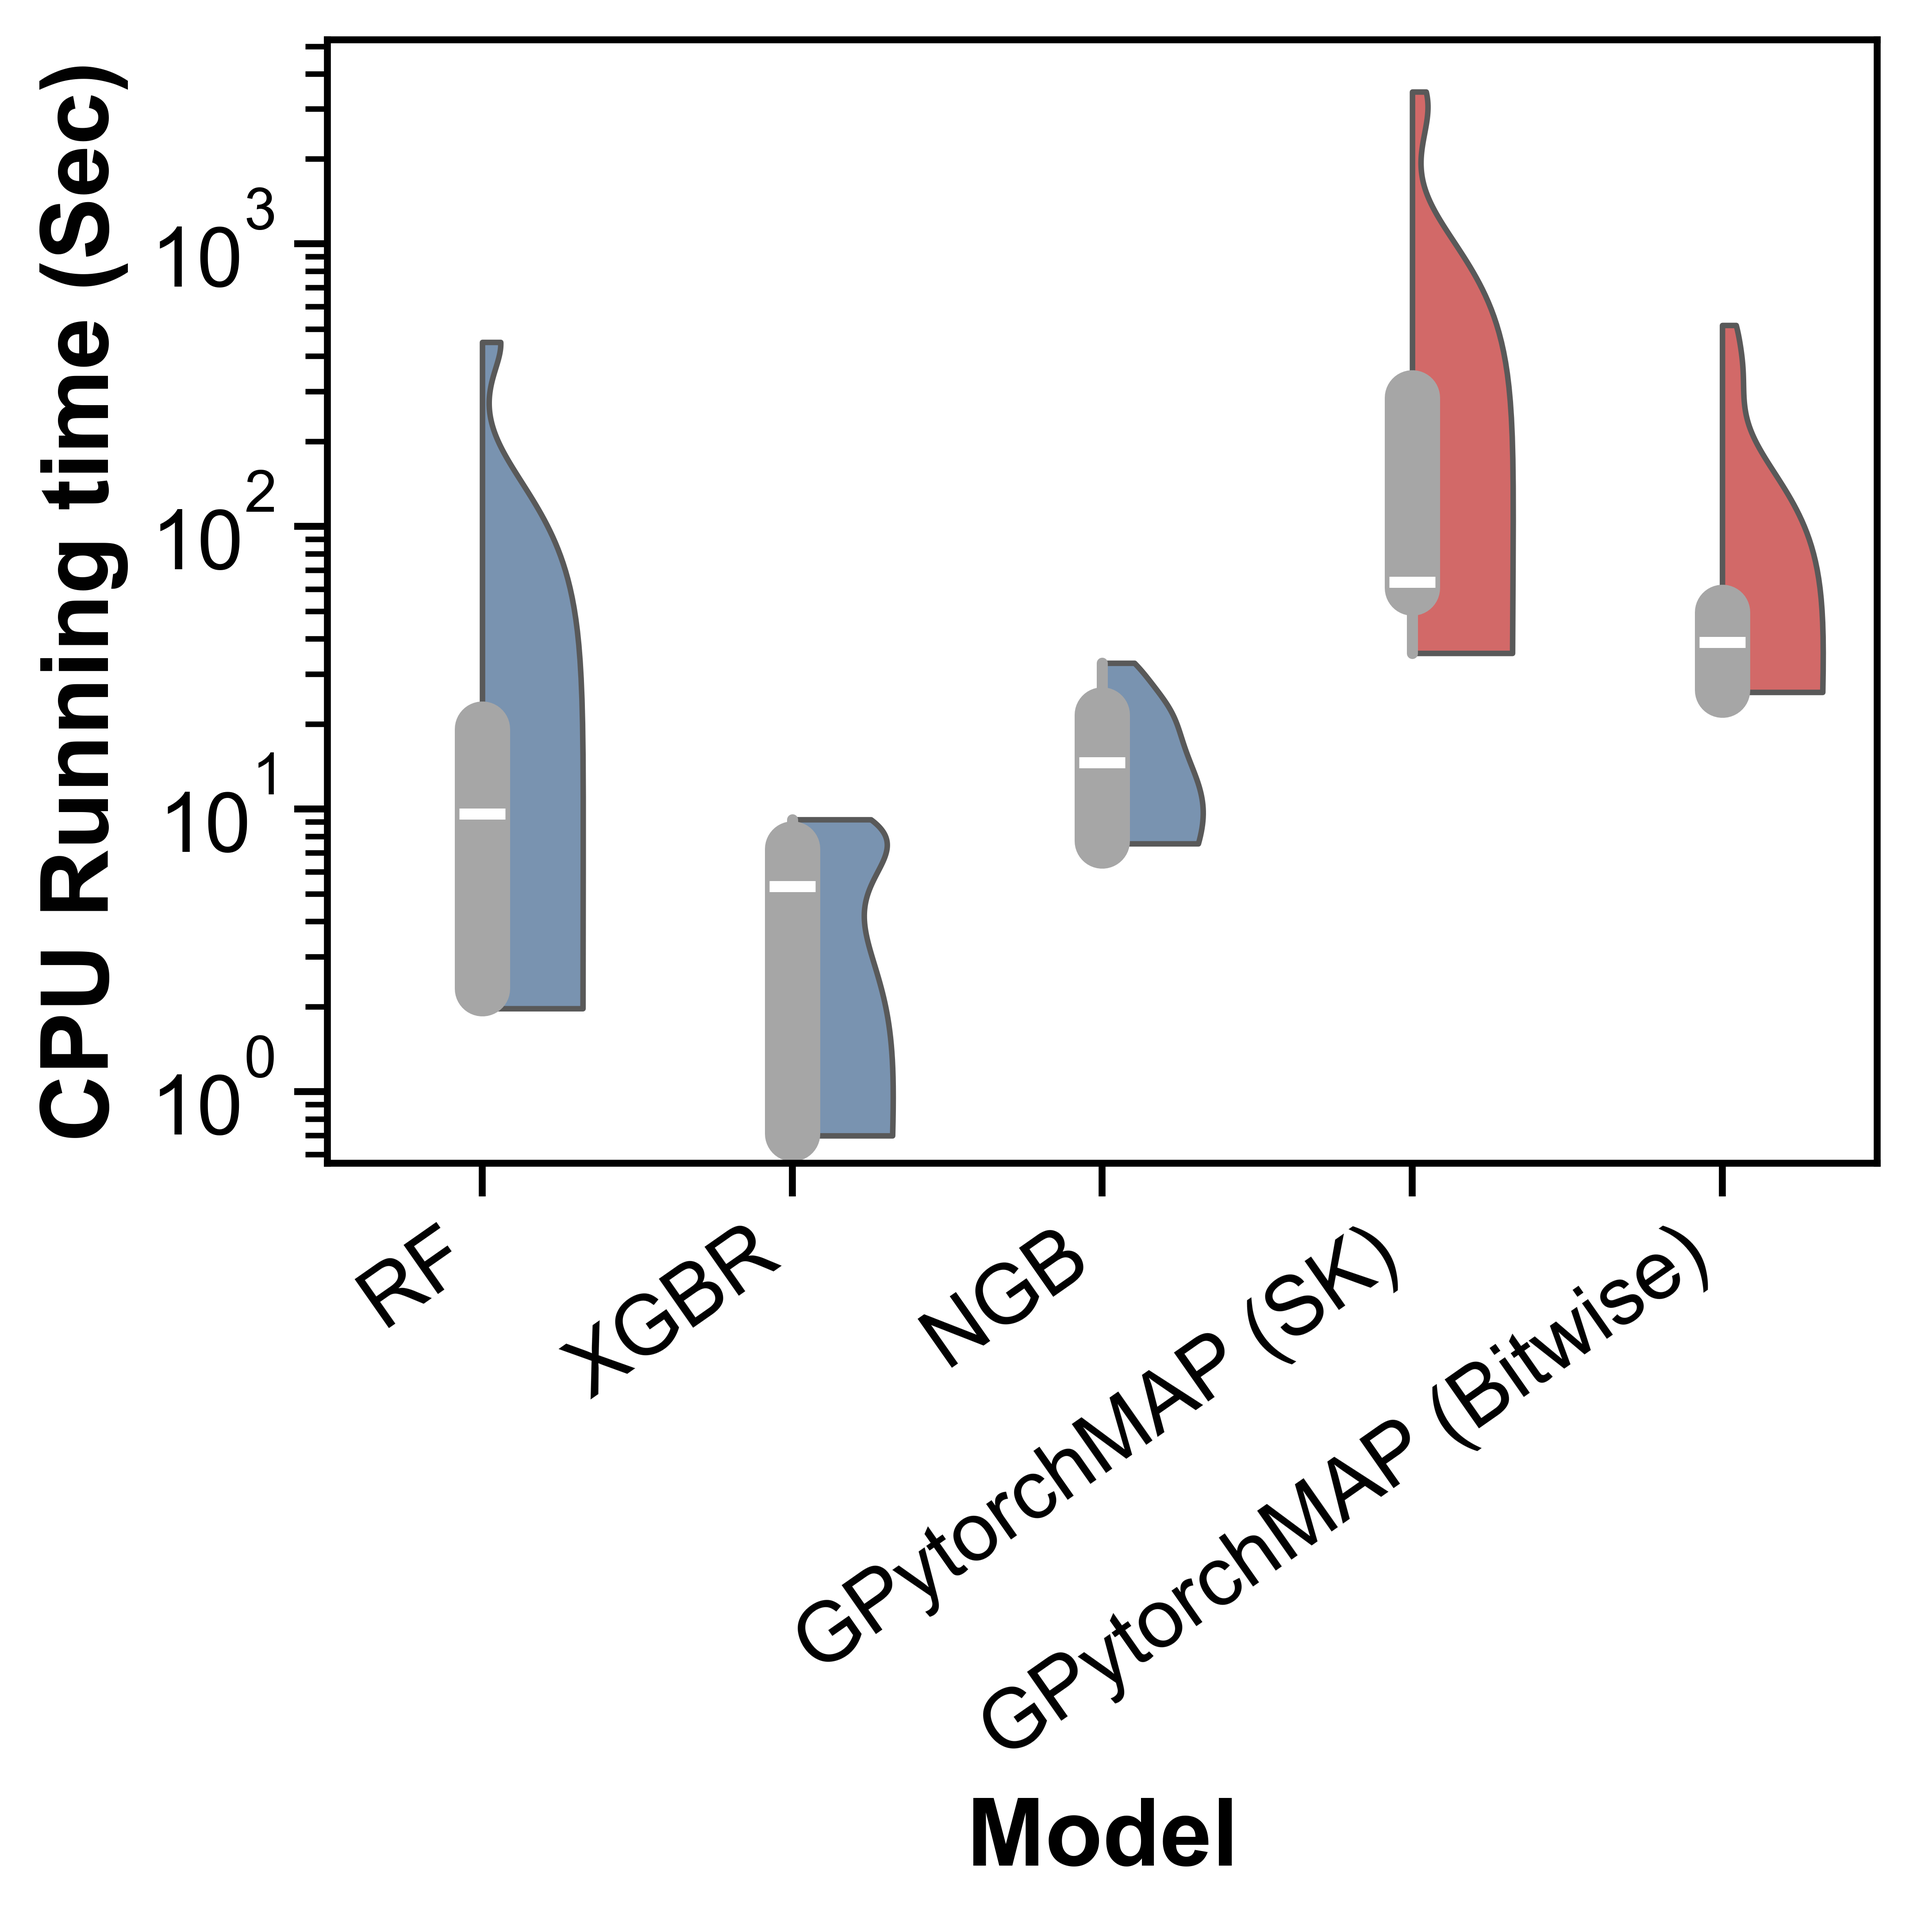
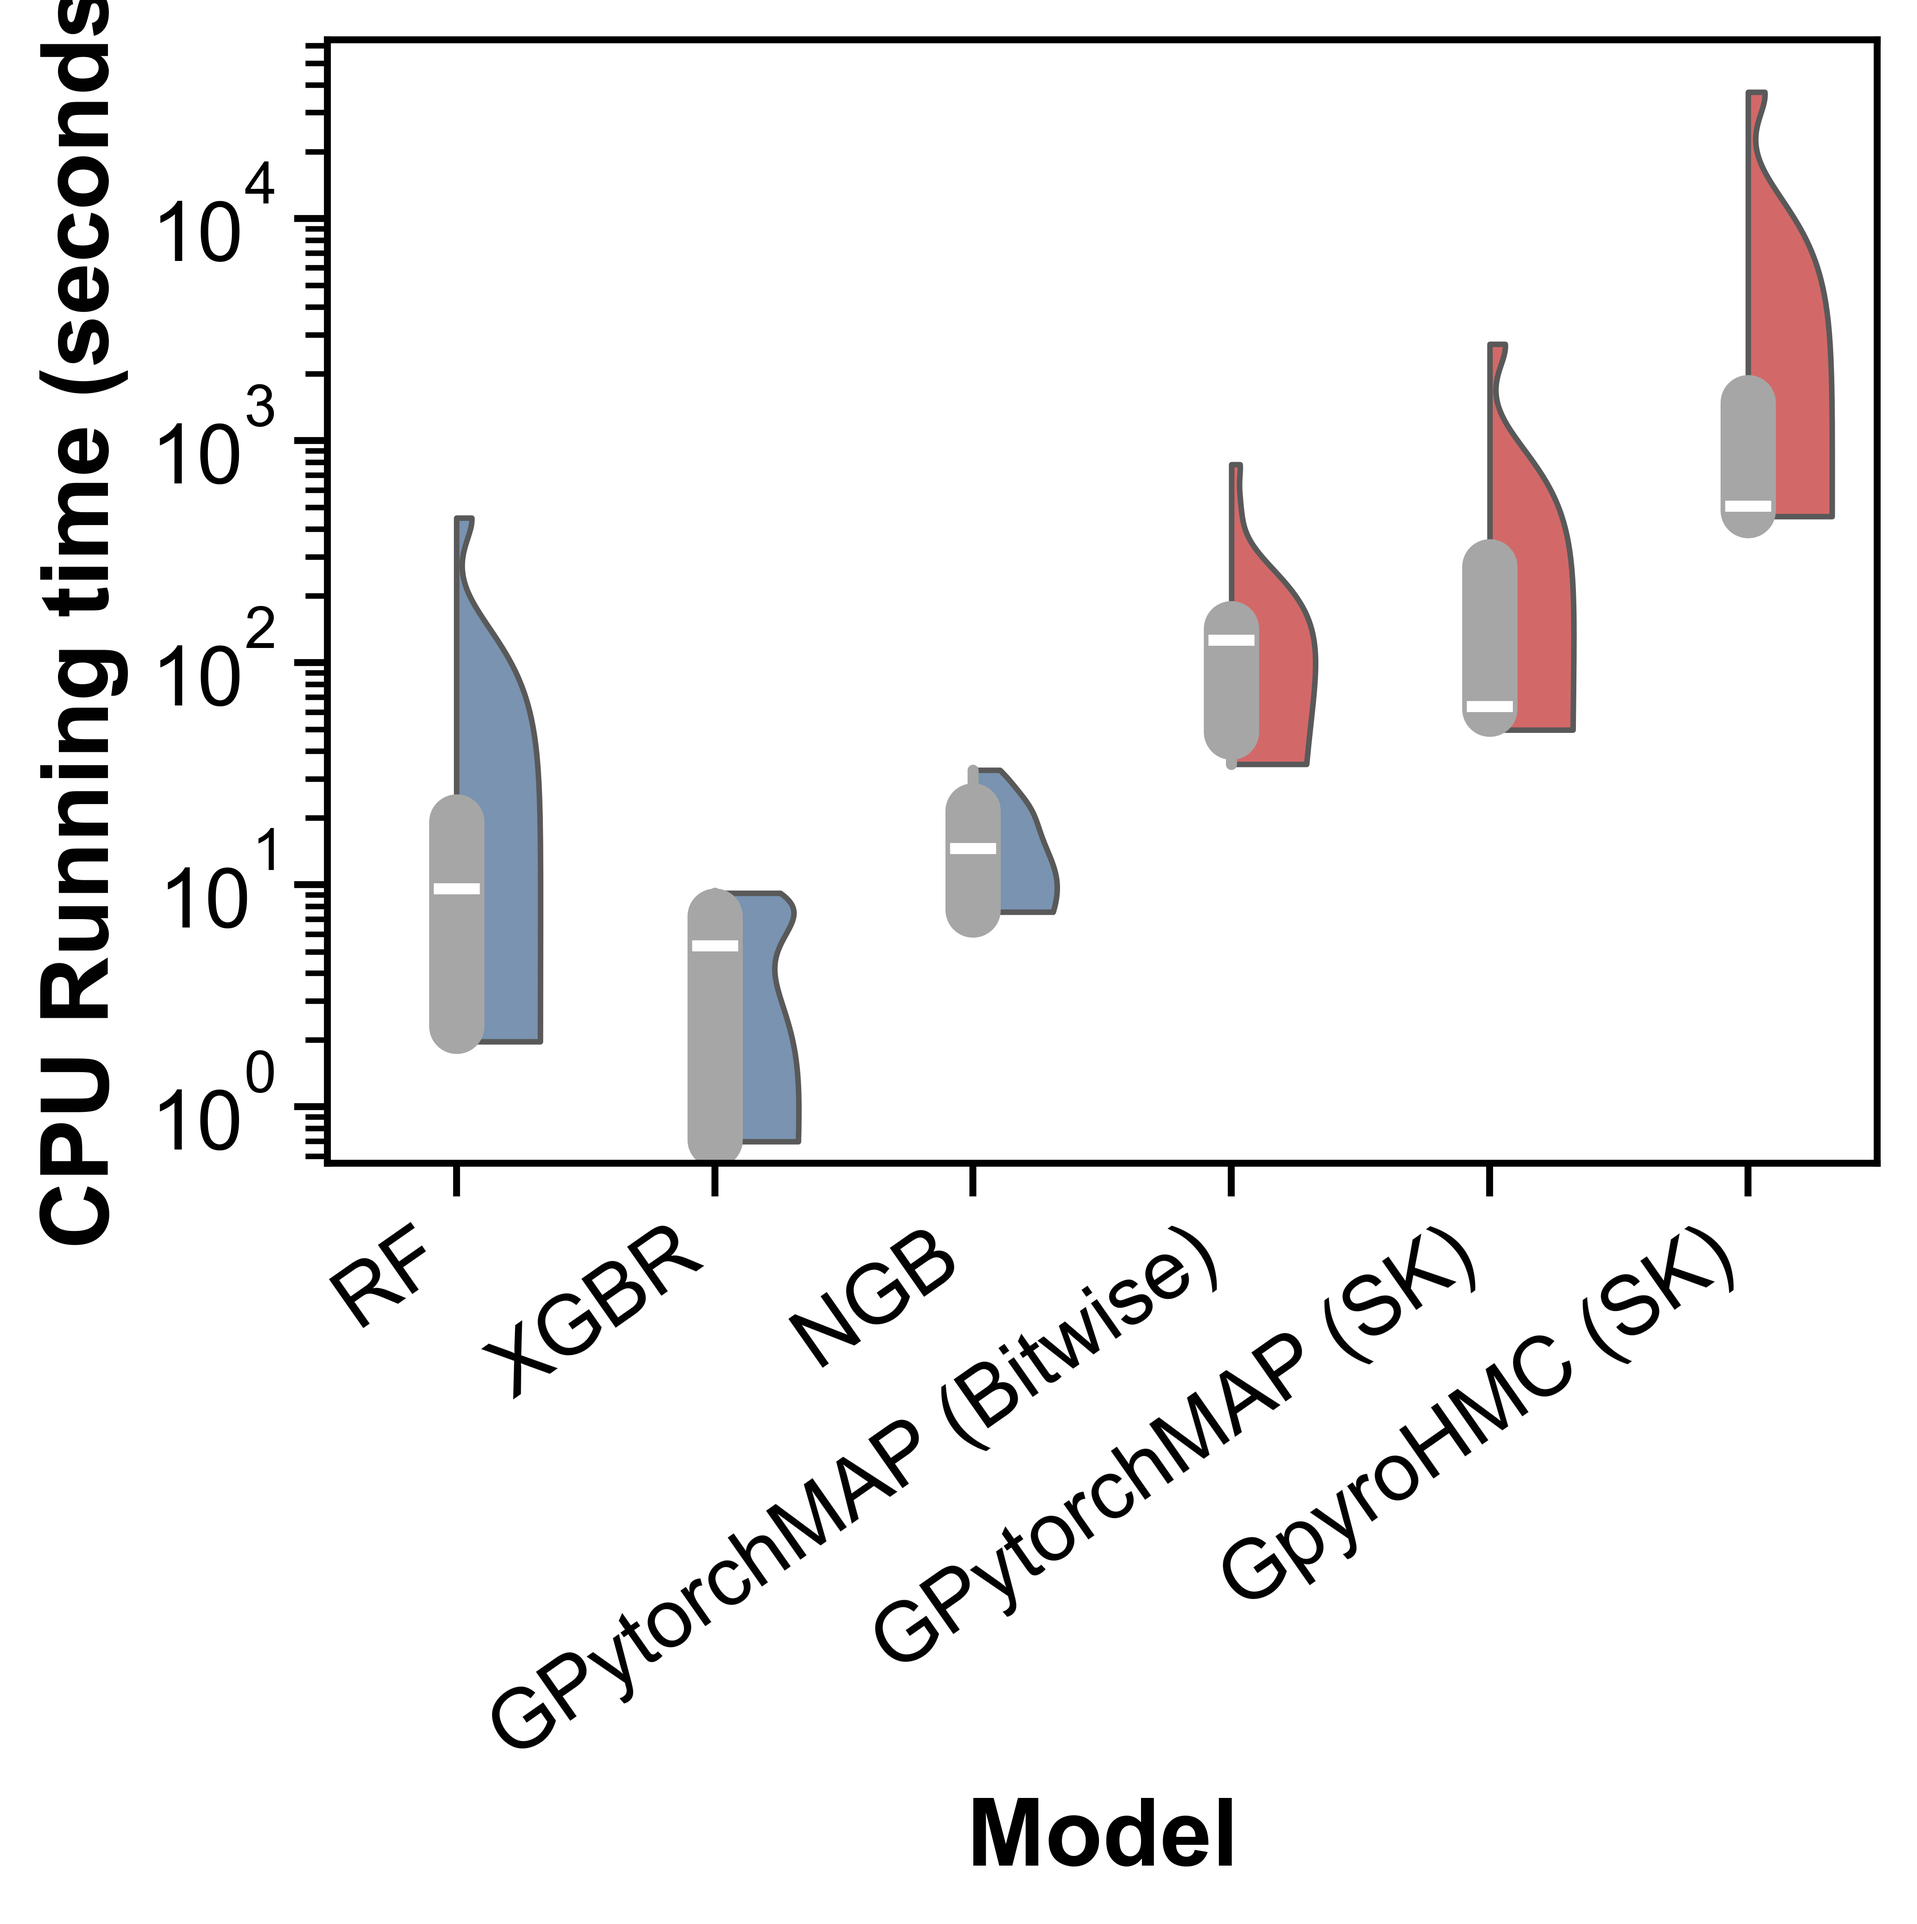
updated

diff --git a/code_python/visualization/visualize_gp.py b/code_python/visualization/visualize_gp.py
@@ -929,6 +929,25 @@ def _model_config_label(row: pd.Series, include_kernel_config: bool = True) -> s
     return f"{model} ({suffix})"
 
 
+def _model_config_sort_key(row: pd.Series, model_order: Optional[Dict[str, int]] = None) -> tuple:
+    model = str(row["model"])
+    model_rank = len(model_order) if model_order is not None else 0
+    if model_order is not None:
+        model_rank = model_order.get(model.lower(), model_rank)
+
+    fp_kernel = row["fp kernel"]
+    if model in TREE_MODELS:
+        family_rank = 0
+    elif pd.notna(fp_kernel) and "tanimoto" not in str(fp_kernel).lower():
+        family_rank = 1
+    elif pd.notna(fp_kernel) and "tanimoto" in str(fp_kernel).lower():
+        family_rank = 2
+    else:
+        family_rank = 3
+
+    return (family_rank, model_rank, model)
+
+
 def _model_type_color(model: Any) -> str:
     model_name = str(model)
     model_upper = model_name.upper()
@@ -1056,7 +1075,16 @@ def plot_model_comparison(
             .copy()
         )
 
-    order = plot_df[x_col].drop_duplicates().tolist()
+    selected_models = _selection_values(model) or MODELS
+    model_order = {str(model_name).lower(): idx for idx, model_name in enumerate(selected_models)}
+    config_order = plot_df[
+        [x_col, "model", "fp kernel", "count kernel", "mixing method"]
+    ].drop_duplicates(subset=[x_col])
+    config_order["sort_key"] = config_order.apply(
+        lambda row: _model_config_sort_key(row, model_order),
+        axis=1,
+    )
+    order = config_order.sort_values("sort_key", kind="mergesort")[x_col].tolist()
     violin_palette = {
         label: _model_type_color(plot_df.loc[plot_df[x_col] == label, "model"].iloc[0])
         for label in order
@@ -1947,11 +1975,11 @@ def plot_profile_auc_heatmap(
 
 if __name__ == "__main__":
 
-    build_master_performance_data(save_path=RESULTS/"master_performance_data"/"Tree_and_GP",
-                                   score_metrics=DEFAULT_SCORE_METRICS)
+    # build_master_performance_data(save_path=RESULTS/"master_performance_data"/"Tree_and_GP",
+    #                                score_metrics=DEFAULT_SCORE_METRICS)
 
-    # COMBINED_RESULTS: pd.DataFrame = RESULTS / "master_performance_data"/ "Tree_and_GP.pkl"
-    # result_df = pd.read_pickle(ensure_long_path(COMBINED_RESULTS))
+    COMBINED_RESULTS: pd.DataFrame = RESULTS / "master_performance_data"/ "Tree_and_GP.pkl"
+    result_df = pd.read_pickle(ensure_long_path(COMBINED_RESULTS))
     # prof_results = performance_plot_with_ranks(
     #     df=result_df,
     #     metric="r2",
@@ -2011,20 +2039,20 @@ if __name__ == "__main__":
     # )
 
 
-    # plot_model_comparison(
-    #     df=result_df,
-    #     metric="r2",
-    #     model=["RF", "XGBR","NGB","GPytorchMAP", "GpyroHMC"],
-    #     kernel_triples=[
-    #         ("Matern32", "Matern32", "averageProduct"),
-    #         ("TanimotoMatern32", "Matern32", "averageProduct"),
-    #         ],
-    #     y_label="R²",
-    #     fontsize=17,
-    #     show=True,
-    #     # y_lim=(0,.2),
-    #     figsize=(5, 5),
-    #     # log_y=True,
-    #     save_dir=HERE / "result_analysis",
-    #     file_name="r2_model_comparison.png",
-    # )
+    plot_model_comparison(
+        df=result_df,
+        metric="ece",
+        model=["RF", "XGBR","NGB","GPytorchMAP", "GpyroHMC"],
+        kernel_triples=[
+            ("Matern32", "Matern32", "product"),
+            ("TanimotoMatern32", "Matern32", "product"),
+            ],
+        y_label="ECE",
+        fontsize=17,
+        show=True,
+        y_lim=(0,.2),
+        figsize=(5, 5),
+        # log_y=True,
+        save_dir=HERE / "result_analysis",
+        file_name="ece_running_time_model_comparison.png",
+    )
